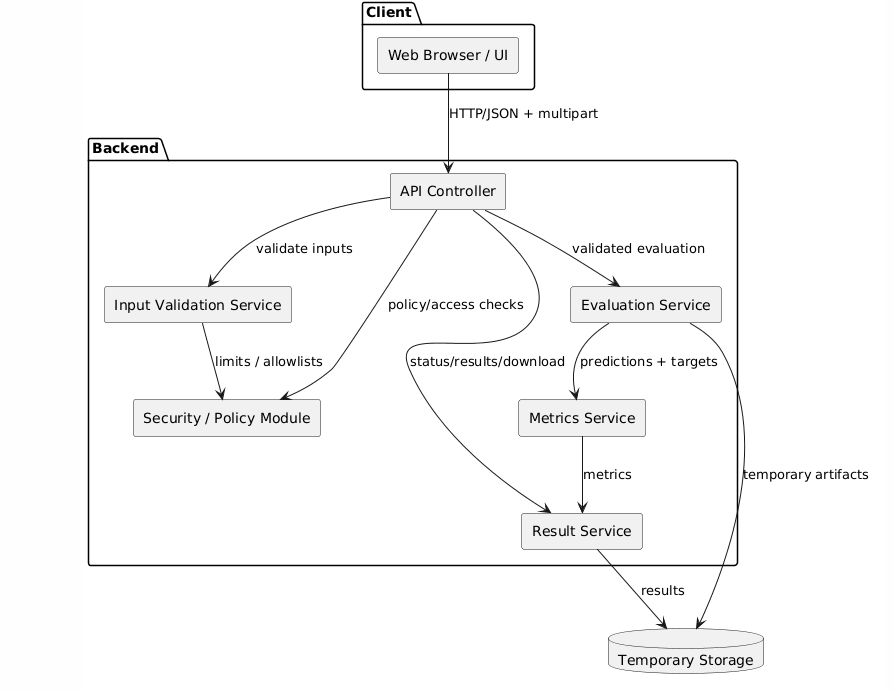
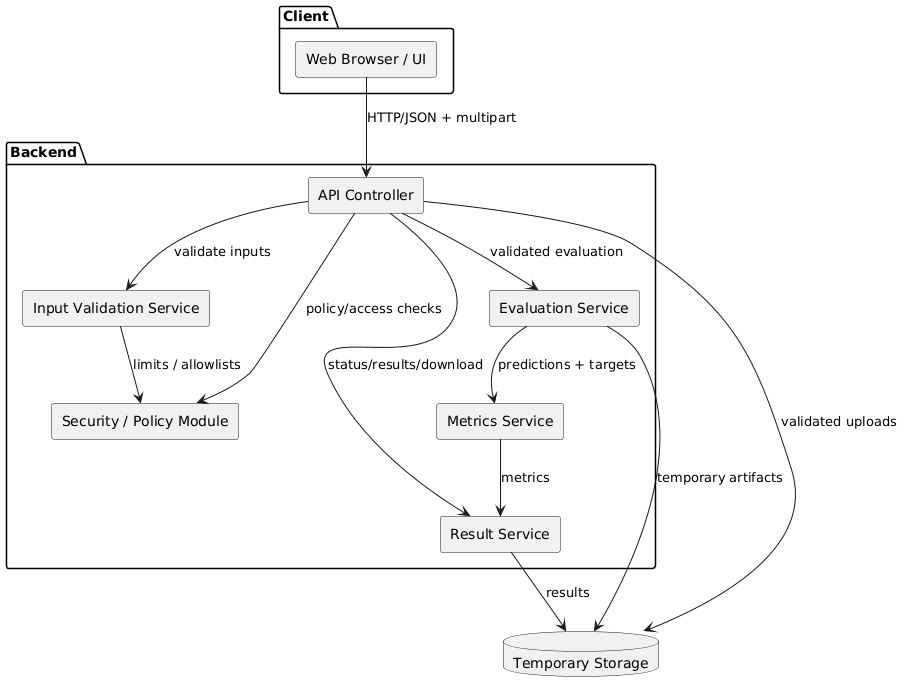
Fix UML modeling errors in the diagrams and add PlantUML sources
No diagram sources were committed, so the four diagrams were
reconstructed as .puml files; rendered unchanged, they reproduce the
committed PNGs. Three diagrams are then corrected and re-rendered
(use_case.png is unchanged):

- sequence_validation: the alt fragment had a single [Invalid input]
  operand placed after the success path had already returned
  "Validation successful", so the diagram read as "succeed, then maybe
  fail". Both outcomes are now operands of one alt/else after the
  checks. "Pass validated reference" was drawn as a dashed reply arrow
  although it is a call.
- sequence_evaluation: the Evaluation Service asked the Metrics Service
  to "generate predictions", but prediction is the Evaluation Service's
  responsibility (component table and component diagram). It now
  predicts itself and sends predictions + targets to Metrics. The
  diagram also shows the parts of the documented lifecycle it omitted:
  asynchronous start after the 202, the running status, the failed
  branch, and the UI polling until a terminal status.
- component: the validation sequence has the API Controller storing
  uploads in Temporary Storage, but the component diagram had no such
  dependency. Added it without disturbing the original layout.

The Architecture doc text for sections 4, 8 and 9 is updated to match,
and the README lists the sources and how to regenerate the images.

diff --git a/deliverable-1/03_Architecture_and_Design.md b/deliverable-1/03_Architecture_and_Design.md
@@ -73,7 +73,7 @@ The API Error Handler, Authentication Middleware, and Storage Lifecycle Manager 
 
 *Source: `uml/component.png`*
 
-The diagram shows the browser, backend/API, validation, evaluation, metrics, result, and temporary storage components.
+The diagram shows the browser, backend/API, validation, security/policy, evaluation, metrics, result, and temporary storage components.
 
 ---
 
@@ -167,6 +167,8 @@ Main interaction:
 
 The sequence covers upload/configuration validation, evaluation execution, metric calculation, result creation, and display.
 
+Evaluation runs asynchronously after the `202` response: the Evaluation Service sets the status to `running`, generates predictions, and saves either the completed result or a safe error with status `failed`, while the Web UI polls the status endpoint until the evaluation reaches a terminal status. Validation failures follow the alternative flow in Section 9.
+
 ---
 
 ## 9. Sequence Diagram — Upload Validation
@@ -176,6 +178,8 @@ The sequence covers upload/configuration validation, evaluation execution, metri
 *Source: `uml/sequence_validation.png`*
 
 The sequence focuses on the security-sensitive path where user-controlled files are checked before they can reach model execution.
+
+The `alt` fragment shows both outcomes: valid input is stored under a server-controlled path and handed to the Evaluation Service, while invalid input produces a safe error response and never reaches storage or model execution.
 
 ---
 

diff --git a/README.md b/README.md
@@ -25,13 +25,19 @@ Web-Based-ML-Model-Evaluator/
     ├── 03_Architecture_and_Design.md
     │
     └── uml/
-        ├── use_case.png
-        ├── component.png
-        ├── sequence_evaluation.png
-        └── sequence_validation.png
+        ├── use_case.puml / use_case.png
+        ├── component.puml / component.png
+        ├── sequence_evaluation.puml / sequence_evaluation.png
+        └── sequence_validation.puml / sequence_validation.png
 ```
 
 Additional deliverables and implementation files will be added to the repository as the project progresses.
+
+The UML diagrams are written in [PlantUML](https://plantuml.com). After editing a `.puml` source, regenerate its image, for example with the PlantUML extension for VS Code or with:
+
+```bash
+java -jar plantuml.jar -tpng deliverable-1/uml/component.puml
+```
 
 ## Deliverable 1
 
